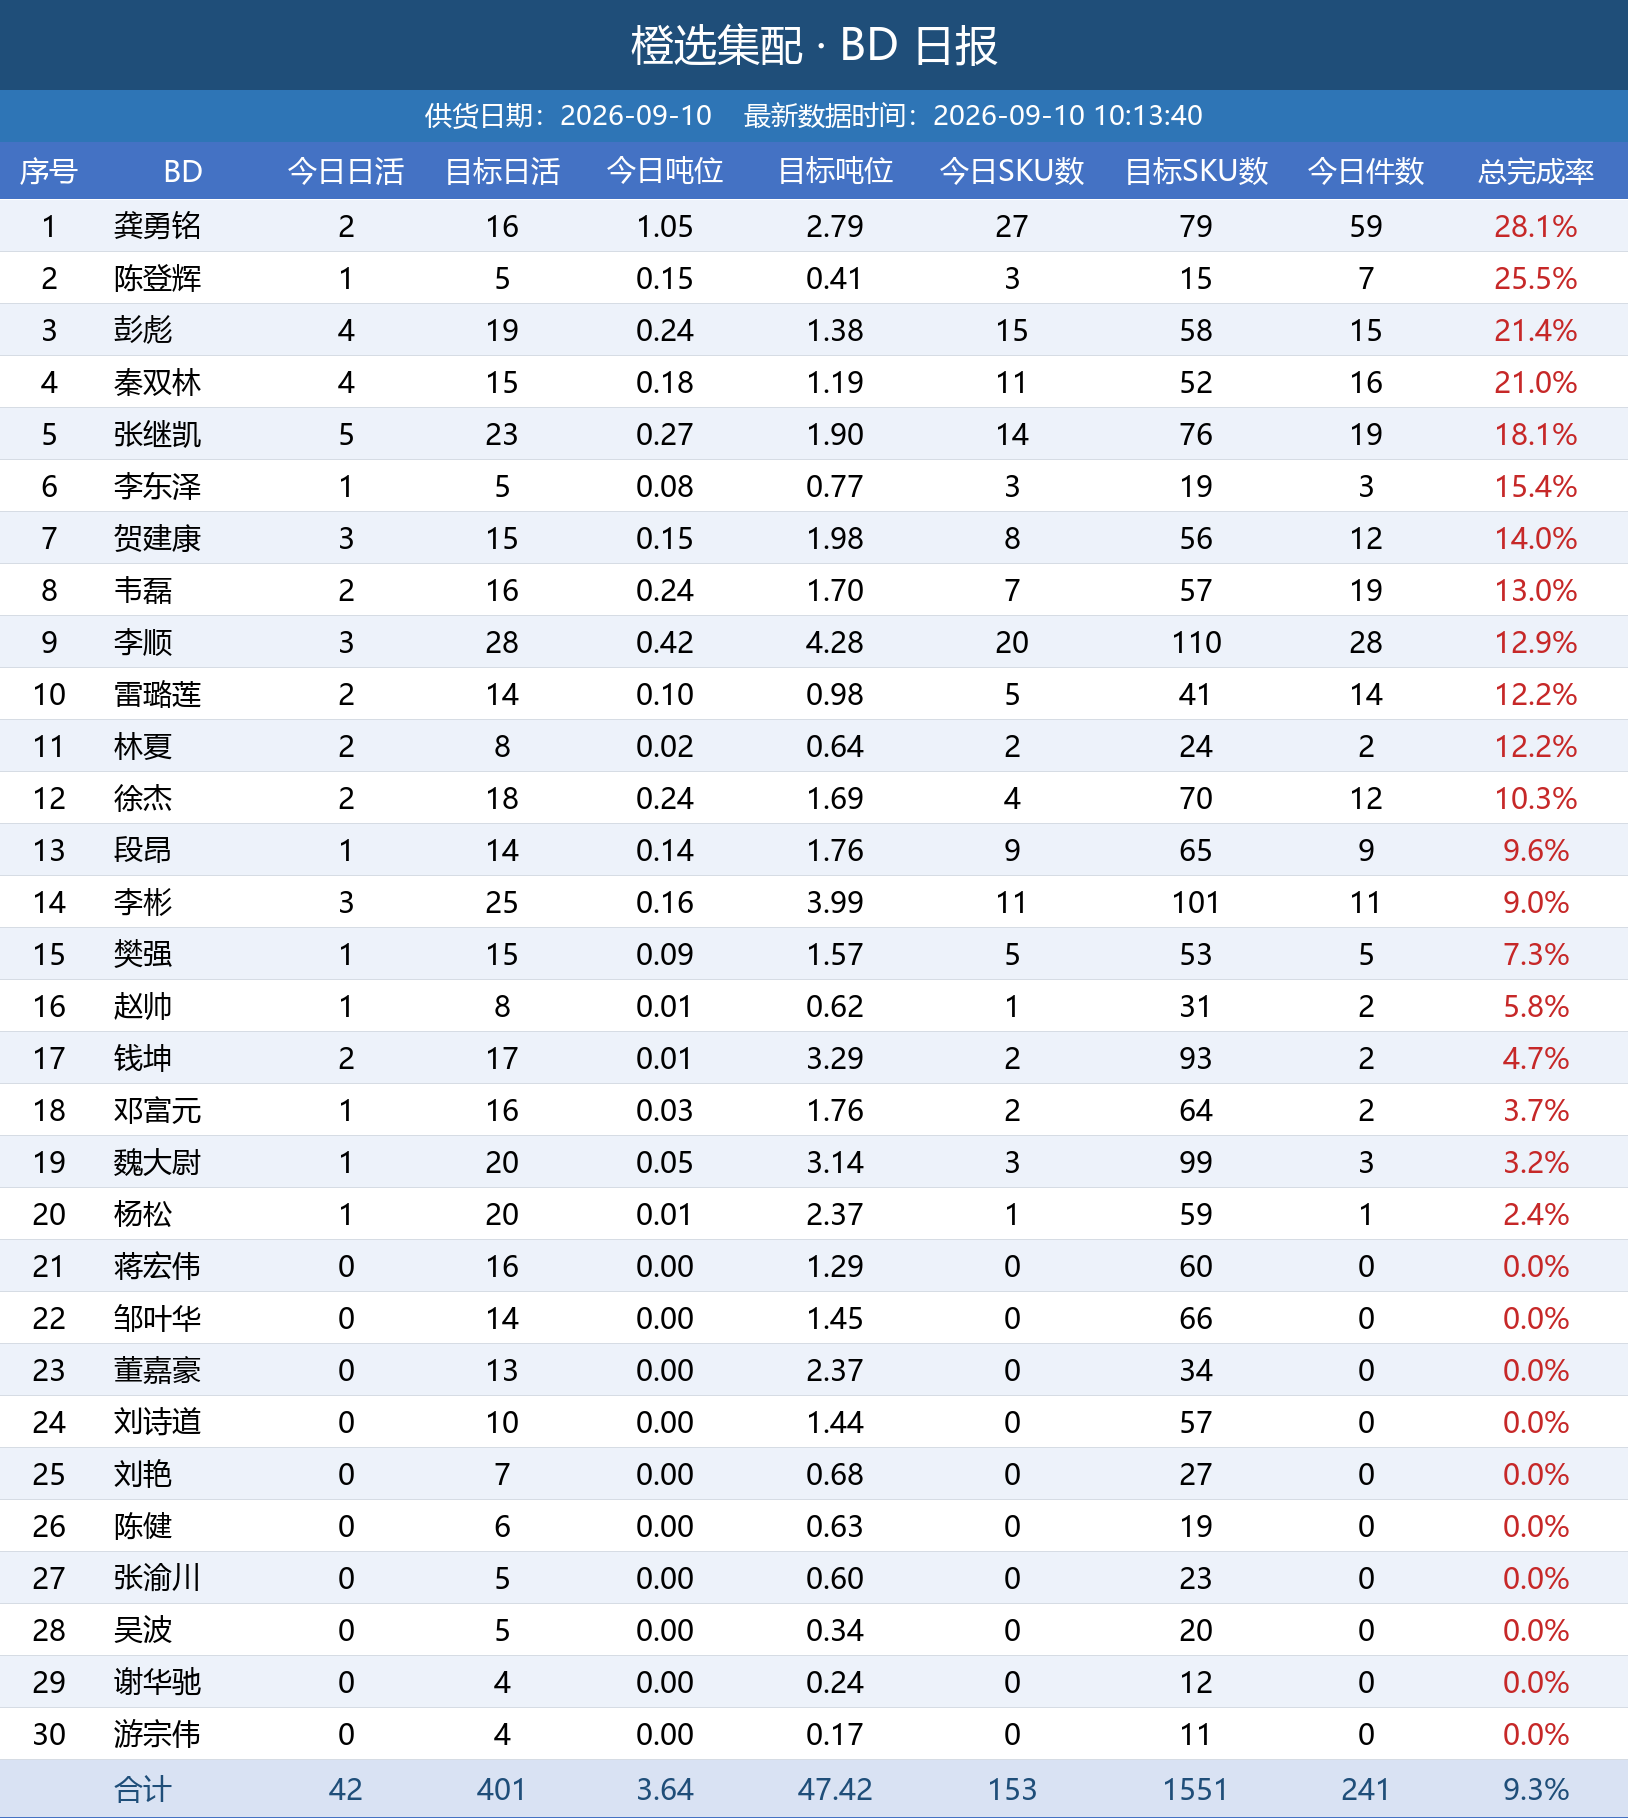
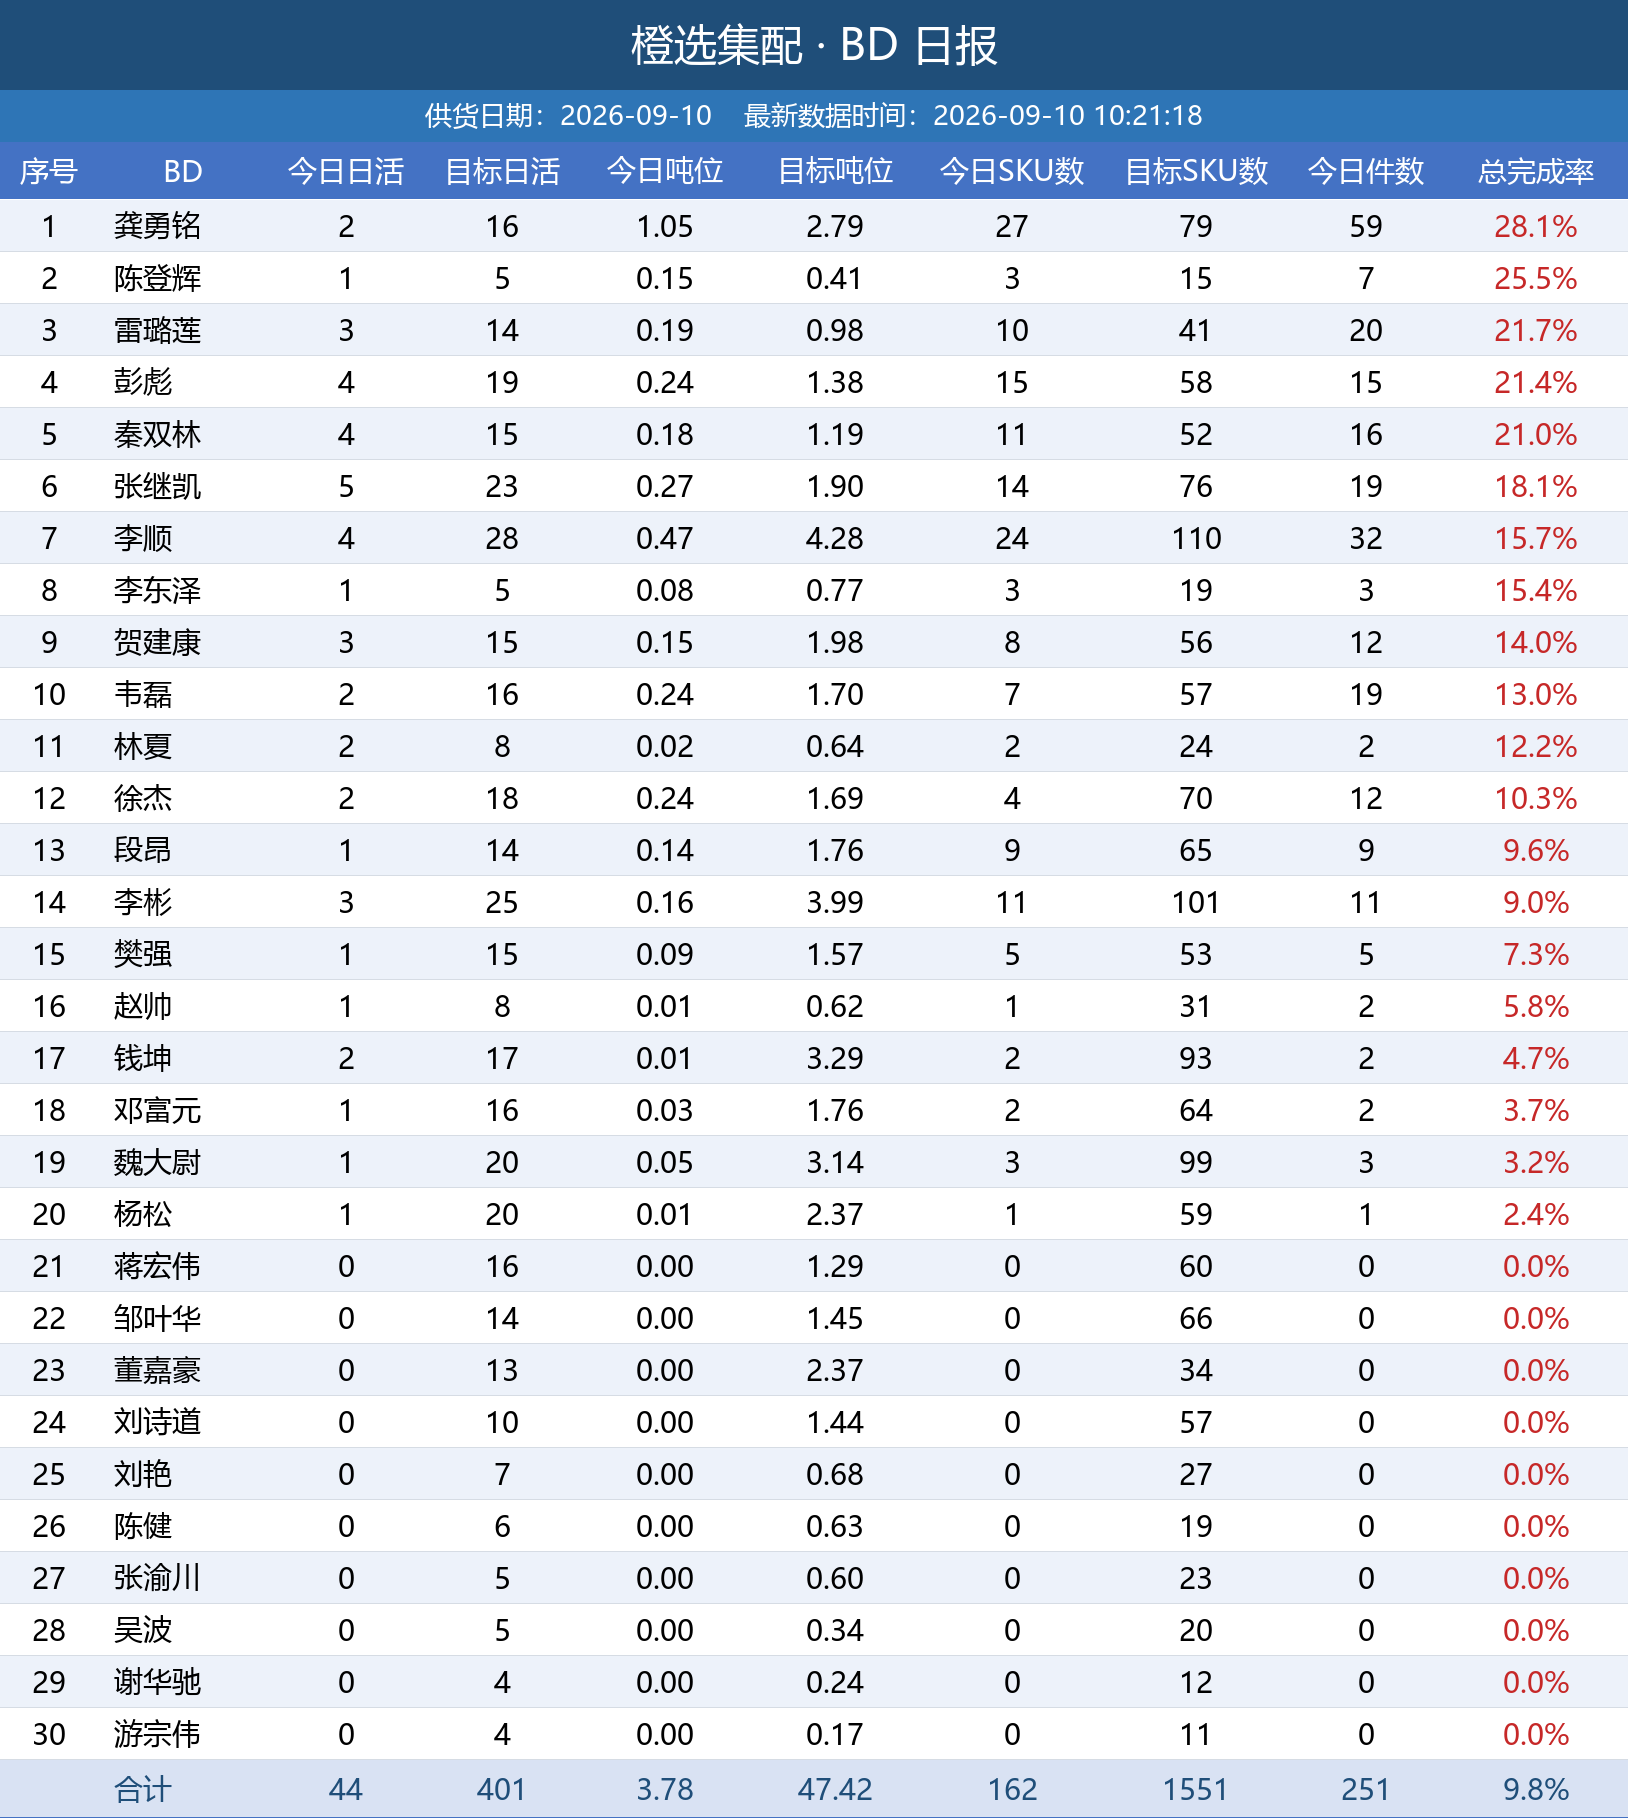
自动更新日报图片

diff --git a/index.html b/index.html
@@ -11,7 +11,7 @@ img { max-width: 100%; border: 1px solid #e5e5e5; margin-bottom: 24px; display: 
 </style>
 </head>
 <body>
-<h1>橙选集配日报图片（20260910_101344）</h1>
+<h1>橙选集配日报图片（20260910_102120）</h1>
 <img src="bd_latest.png" alt="BD 日报">
 <img src="wh_latest.png" alt="城市仓日报">
 <img src="zs_latest.png" alt="招商日报">
